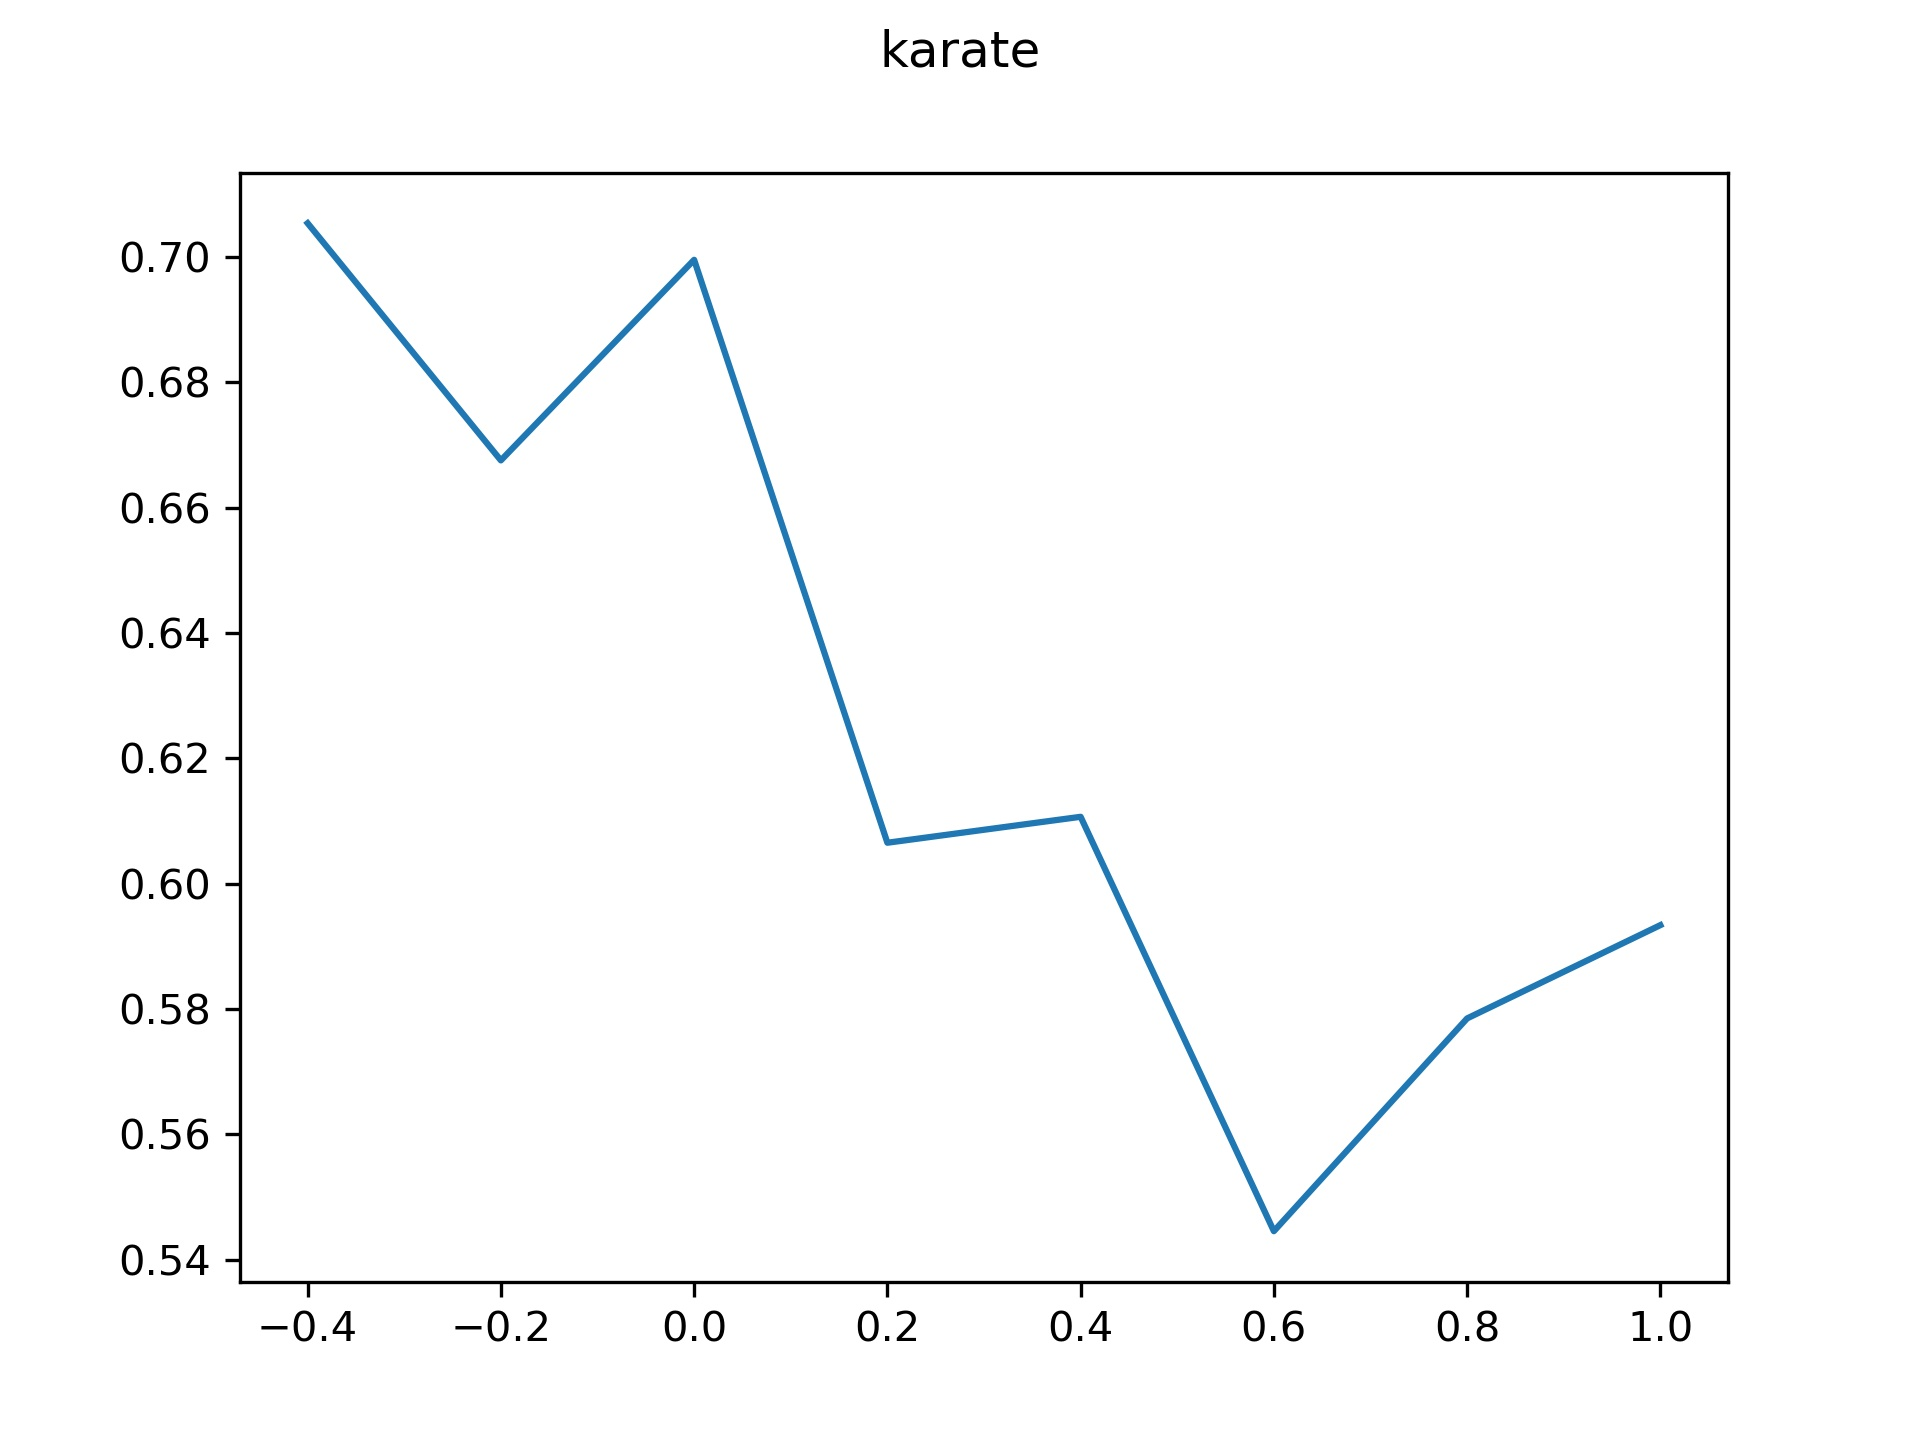
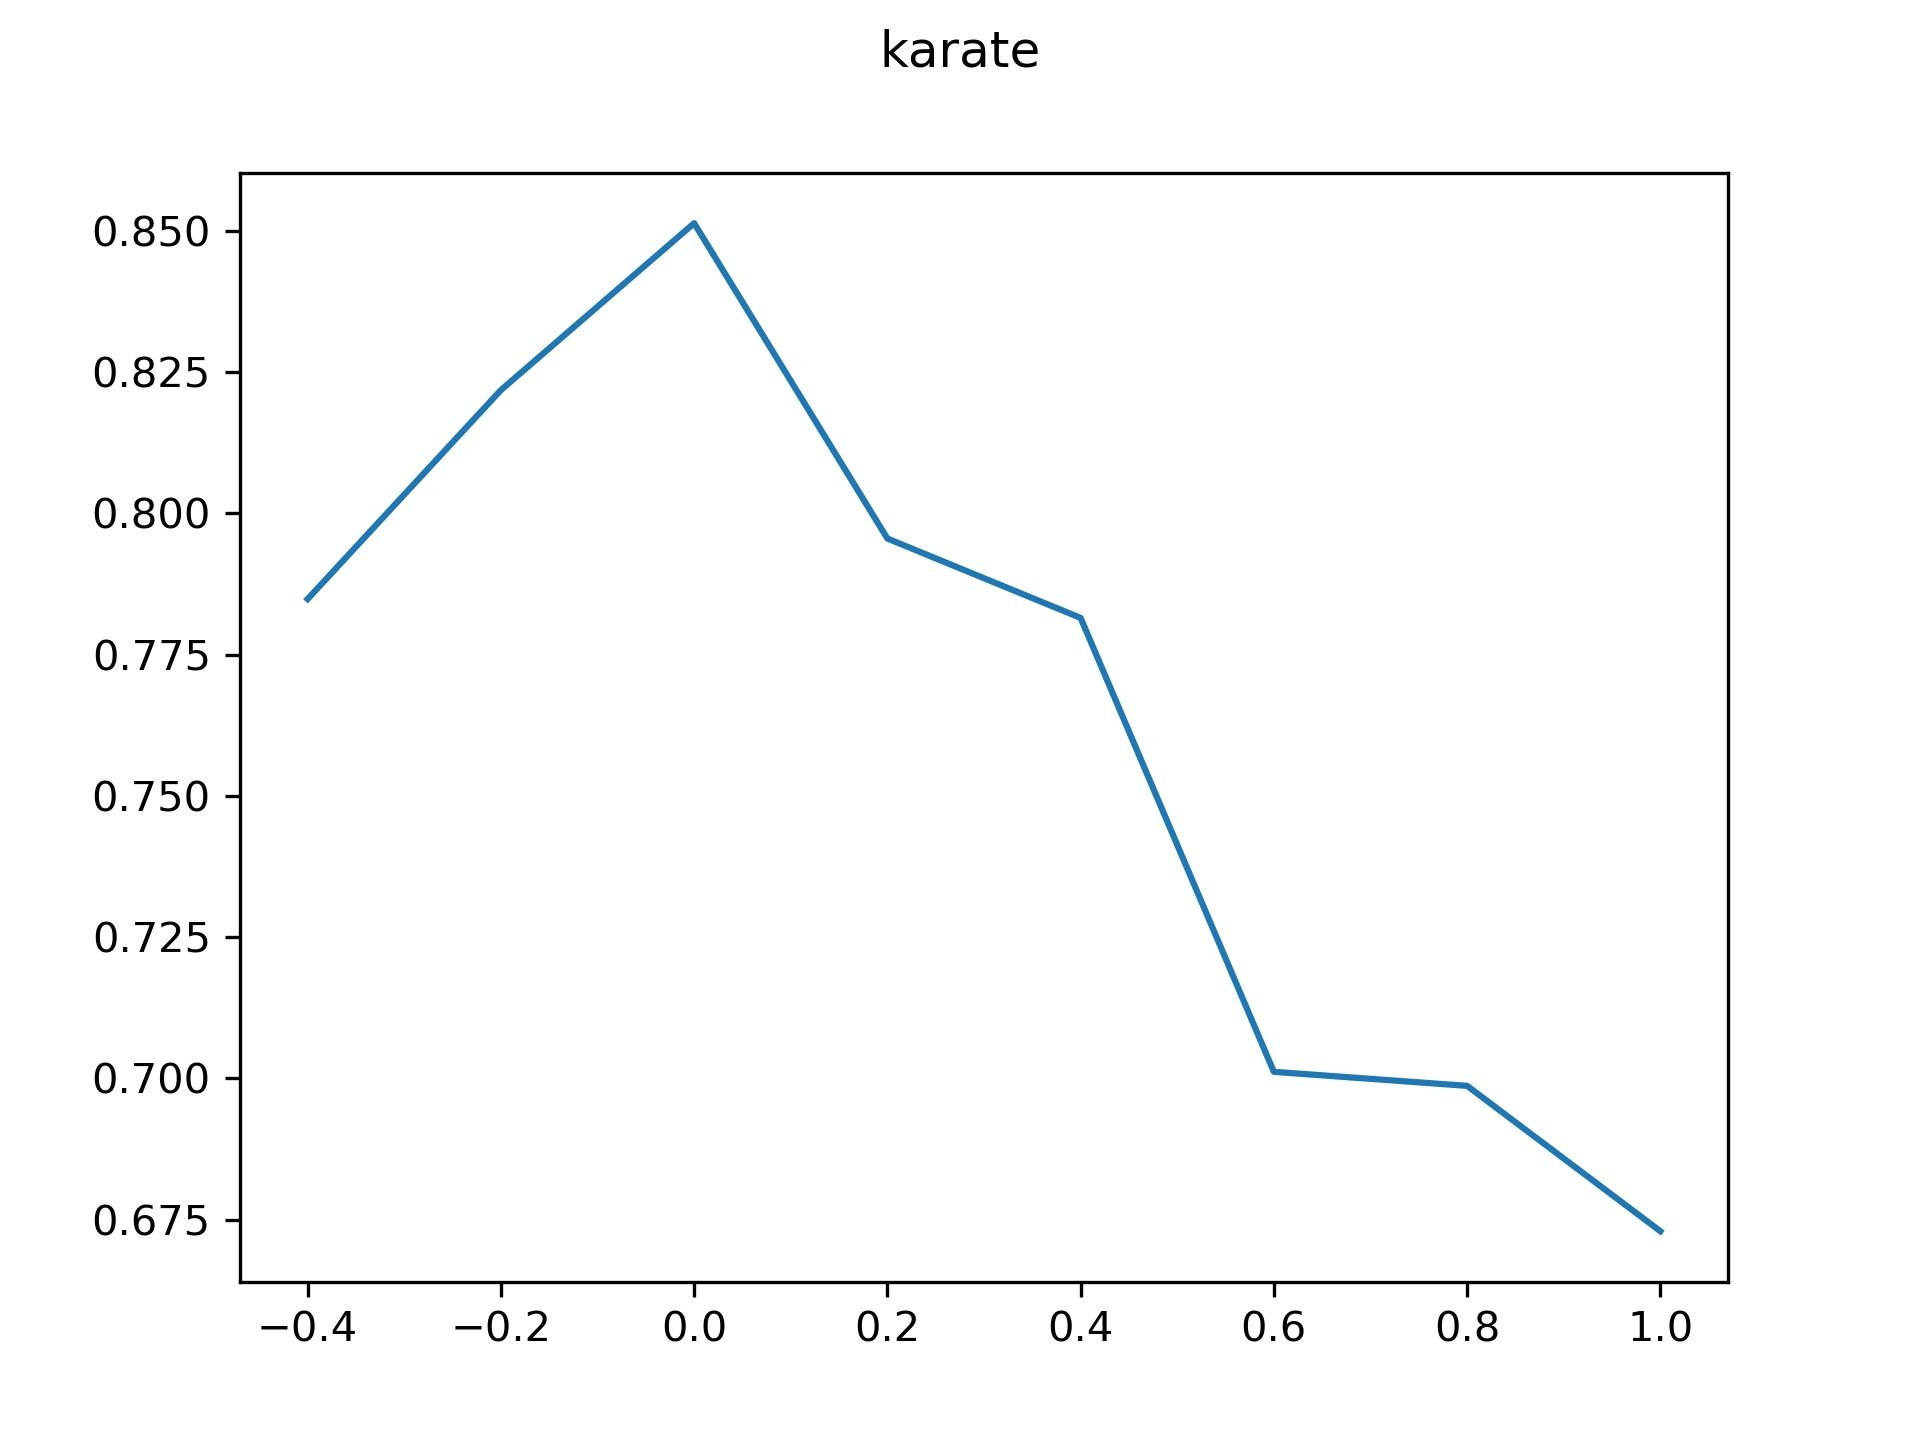
robustness_corrected

diff --git a/metrics.py b/metrics.py
@@ -94,30 +94,10 @@ class ROB ():
                 feat_mat,role_mat = train(data,self.device,self.method)
                 so = AUC_ROC(feat_mat,role_mat,self.adj)
                 sim_mat = so.similarity()
-                non_exist_edges = self.non_exist_sim(non_exist_edges,sim_mat)
-                auc = auc + self.AUC(list(tuple(map(tuple, edges_test))),sim_mat,non_exist_edges)
+                so.flatten()
+                roc_score = so.roc_score()
+                auc = auc + roc_score
         return (auc/10)
-
-    def AUC(self,test_data,sim_mat,non_edges):
-        great = 0
-        equal = 0
-        result = 0
-        for m in range (len(test_data)):
-            sim = sim_mat[test_data[m][0]][test_data[m][1]]
-            for c in range (len(non_edges)):
-                if sim > non_edges[c][2] :
-                    great = great+1
-                if sim == non_edges[c][2] :
-                    equal = equal + 1
-            result = (result + (great+ (0.5*equal)))/(len(test_data)*len(non_edges))
-        return result
-
-    def non_exist_sim(self,non_edges , result_mat):
-        for k in range (len(non_edges)):
-            non_edges[k]= list(non_edges[k])
-            non_edges[k].append(result_mat[non_edges[k][0]][non_edges[k][1]])
-        non_edges.sort(key=lambda x: x[2],reverse=True)
-        return non_edges
 
     def plot(self,dataset):
         fig = plt.figure()
